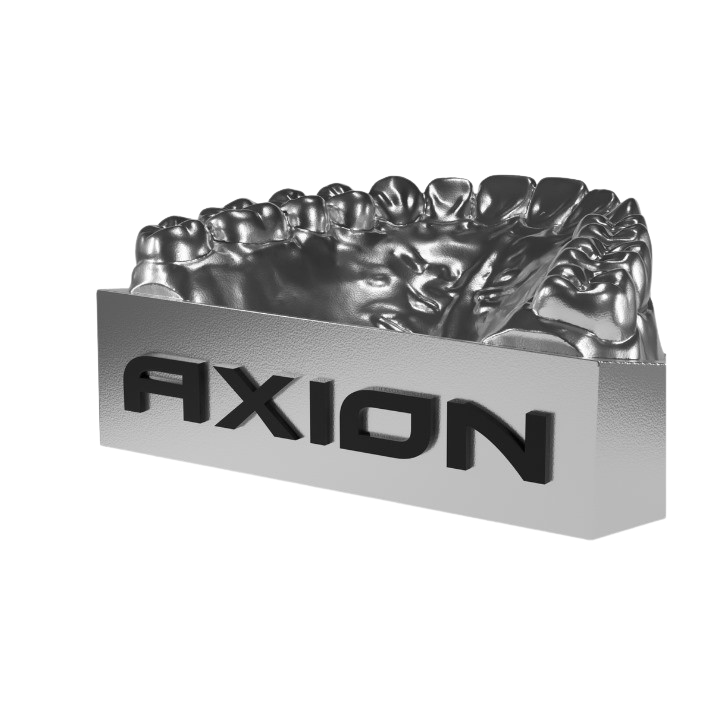
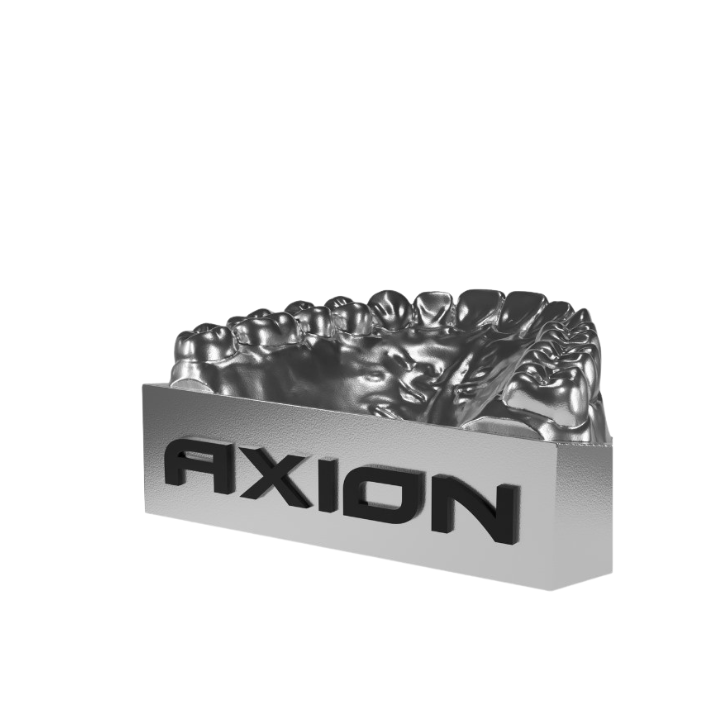
asd

diff --git a/js/serviceStars.js b/js/serviceStars.js
@@ -169,7 +169,7 @@ $cards
     var py_spark = (50 + (py - 50) / 7);
     var p_opc = 20 + (Math.abs(pa) * 1.5);
     var ty = ((tp - 50) / 2) * -1;
-    var tx = ((lp - 50) / 1.5) * .7;
+    var tx = ((lp - 50) / 1.5) * .5;
 
     // CSS styles for active card
     var grad_pos = `background-position: ${lp}% ${tp}%;`;

diff --git a/css/portfolioWebsite.css b/css/portfolioWebsite.css
@@ -31,6 +31,8 @@
 }
 
 #cutout_img_1{
+	margin-top: -114px;
+	margin-left: -154px;
     background: url('../img/bg-remove-axion.png');
 }
 
